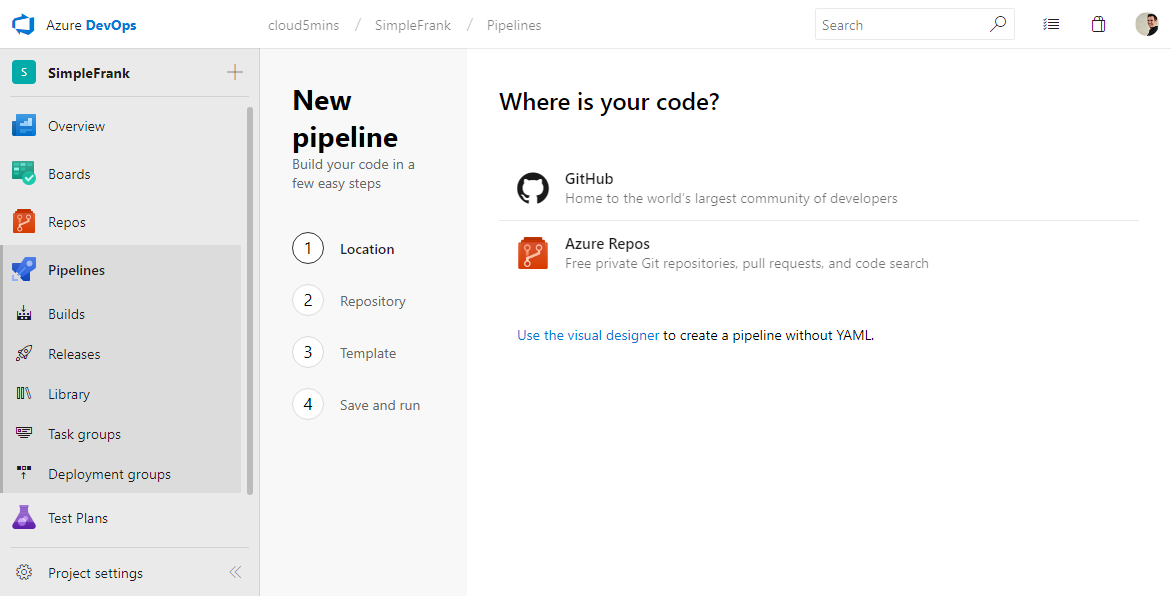
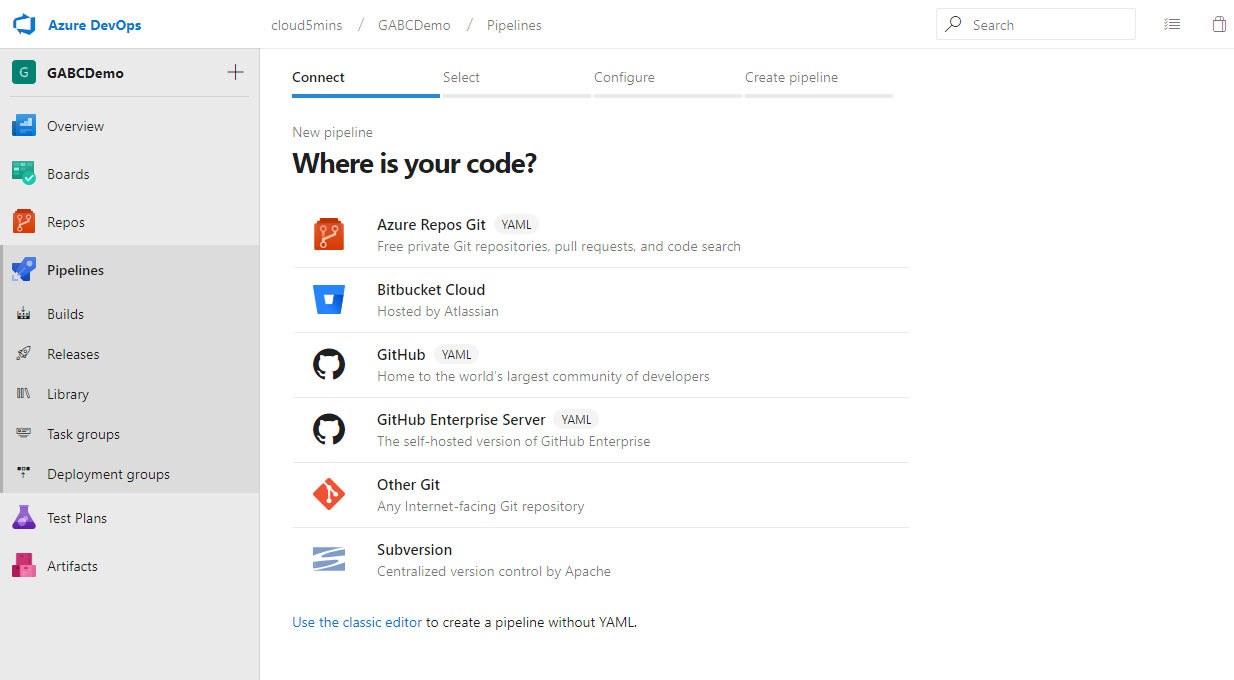
fixing Lab 1 all issue in one shot

diff --git a/Lab1/README.md b/Lab1/README.md
@@ -6,27 +6,23 @@
 
 In this lab you will create an application in .Net Core, push it to a remote repository and create a Continuous Integration and Continuous Deployment (CI/CD) with the Azure DevOps Pipeline to deploy the website to Azure.
 
-## Let's code!
+# Let's code!
 
-### Build The Application
+## Build The Application
 
 First, create a folder named `gab2019`. This will be the root folder for today's solution, all subsequent labs during the day will add content and sub-folder to this one. Then let's create a new web application using the .Net Core. Open a terminal, and navigate to your new root folder "gab2019" folder (ex: C:\Dev\gab2019\).
 
     cd C:\dev\gab2019\
 
-Let's scafold an application named GABCDemo using the following command:
+Let's scaffold an application named GABCDemo using the following command:
 
     dotnet new mvc -o GABCDemo
-
-Go into the new folder where your application as just been created.
-
-    cd GABCDemo
 
 Open the solution into Visual Studio Code with:
 
     code .
 
-### Initialize Local Repository
+## Initialize Local Repository
 
 To create a Git repository you can from Visual Studio Code open a terminal (Ctrl + \`) or return to the terminal windows already open. Make sure your are in the folder `C:\dev\gab2019\` and the following command:
 
@@ -44,9 +40,15 @@ This command will create a new commit containing the current contents of the ind
 
 Now, Git will track the evolution of our code. Git is a decentralized code repository system, therefore there is usually many repository where you can push and pull. However, before we can push our code to a remote repository we have other task to do. Will come back to it later.
 
-### Create The Azure WebApp
+## Create The Azure WebApp
 
-The next step is to create a placeholder for our website.  We will create an empty shell of a web application in Azure with these three Azure CLI commands. You can execute them locally or from the Cloud Shell. (Don't forget to validate that you are in the good subscription)
+The next step is to create a placeholder for our website.  We will create an empty shell of a web application in Azure with these three Azure CLI commands. You can execute them locally, in a terminal or from the Azure Cloud Shell. The Cloud Shell is a terminal... in Azure! You can access it via the URL [https://shell.azure.com/](https://shell.azure.com).
+
+![CloudShell][CloudShell]
+
+Don't forget to validate that you are in the good subscription. if you are not sure try `az account show` to display information about the current subscription.
+
+> Note: You might experience an error if you webapp name is not unique. (Conflict: Website with given name <web app name> already exists.) Make sure to use a unique name. ex: gab2019<your_initial><2digits_random_number> gab2019AV47
 
     az group create --name gabcdemogroup --location eastus
 
@@ -54,17 +56,15 @@ The next step is to create a placeholder for our website.  We will create an emp
 
     az webapp create --name gabcdemo --resource-group gabcdemogroup --plan gabcdemoplan
 
-    Note: You might experience an error if you webapp name is not unique. (Conflict: Website with given name <web app name> already exists.) Make sure to use a unique name. ex: gab2019<your_initial><2digits_random_number> gab2019AV47
-
 The first command will create a Resource group. Then inside of this group we create a service plan, and finally we create a webapp to the mix.
 
 To validate that everything has been created, open a internet browser and navigate to the Azure Portal (portal.azure.com). From the left menu select *Resource Groups*. Click on the group *gabcdemogroup* that we just created, then click on the web App *gabcdemo*
 
 ![resourceGroup][resourceGroup]
 
-In the top section of the blade you will found the URL of the web site, click on it. You should see a meesage saying:"Your App Service app is up and running".  That perfect, our website shell is ready.
+In the top section of the blade you will found the URL of the web site, click on it. You should see a message saying:"Your App Service app is up and running".  That perfect, our website shell is ready.
 
-### Create an Azure DevOps project
+## Create an Azure DevOps project
 
 Navigate to [Dev.Azure.com](http://Dev.Azure.com) and if you don't already have an account [create one it's free!](../Lab0/README.md#azure-devops) Once you are logged-in, create a new project by clicking the New project blue button in the top right corner.
 
@@ -72,19 +72,25 @@ Navigate to [Dev.Azure.com](http://Dev.Azure.com) and if you don't already have 
 
 You will need to provide a unique name and a few simple information. 
 
-### Get the Remote Repository Url
+## Get the Best Azure DevOps Experience
+
+To get the best of the Azure DevOps portal and from the Azure Pipeline, turn ON a few (or all) option(s) in the Settings. To follow this Lab, the option **New YAML pipeline creation experience** should be on. Do enable it, click in the top-right corner on your avatar, and select the **Preview features** option. Then turn on the feature(s)
+
+![PreviewFeatures][PreviewFeatures]
+
+## Get the Remote Repository Url
 
 Here you have two options you can use the repository provided in the Azure DevOps project you just created, or create a another one in GitHub.
 
-#### Option 1: Using Azure DevOps Repos
+### Option 1: Using Azure DevOps Repos
 
 On Azure DevOps portal, from the left menu select *Repos*. Copy the command under the `or push an existing repository from command line`.
 
 ![gitremoteadd][gitremoteadd]
 
-#### Option 2: Using GitHub
+### Option 2: Using GitHub
 
-Azure Pipeline support many different repository. One that is very popular is Github. If you don't already have an account [create one it's free!](../Lab0/README.md#github-optional) Once you are logged-in, create a new repository by expending the "+" in the top right corner, then clicking the **New repository** button.
+Azure Pipeline support many different repository. One that is very popular is GitHub. If you don't already have an account [create one it's free!](../Lab0/README.md#github-optional) Once you are logged-in, create a new repository by expending the "+" in the top right corner, then clicking the **New repository** button.
 
 ![NewGitHubRepoHere][NewGitHubRepoHere]
 
@@ -96,20 +102,20 @@ Now from this page grab the code under `…or push an existing repository from t
 
 ![AddGitHubRemote][AddGitHubRemote]
 
-### Add a Remote Repository
+## Add a Remote Repository
 
 Return to the Terminal/ Console and paste the command.
 
-    git remote add origin https:.....
+    git remote add origin [URL_FOUND_IN_THE_PREVIOUS_STEP]
     git push origin --all
 
 THe first line is to add the remote repository and name it "origin". The second line is to push (upload) the content of the local repository to origin (the remote one). You will need to enter your credential.
 
-### Continuous Integration
+## Continuous Integration
 
 The goal is to have the code to get to compile at every commit. From the Azure DevOps' left menubar, select *Pipelines*, and click the create new button. The first step is to identify where our code is, as you can see Azure DevOps is flexible and accept code from different sources. Select the source you use at the precedent step (option 1: Azure Repos or option 2: GitHub).
 
-> **Note:** If you are using GitHub you will need to Authorize Azure DevOps to your Github repository by clicking the Authorize button.
+> **Note:** If you are using GitHub you will need to Authorize Azure DevOps to your GitHub repository by clicking the Authorize button.
 
 ![NewPipeline_step1][NewPipeline_step1]
 
@@ -117,15 +123,19 @@ Select the exact repository.
 
 ![NewPipeline_step2][NewPipeline_step2]
 
-This third step displays the YAML code that defines your pipeline. At this point, the file is not complete, but it's enough to build, we will come back to it later. Click the *Add* button to add the `azure-pipelines.yml` file at the root level of your repository.
+This third step is to configure our pipeline. You can start from a template, an existing configuration file or an empty one.  For now, let's take the recommended one (Azure DevOps detected our project was .NET Core) and select the template ASP.NET Core.
 
-![NewPipeline_step3][NewPipeline_step3]
+![SelectTemplateASPNETCore][SelectTemplateASPNETCore]
 
-The build pipeline is ready click the *Run* button to execute it for the first time. Now at every commit, the build will be triggered. To see the status of your build just on to into the build section from the left menubar.
+This will displays the *YAML code* that defines your pipeline. At this point, the file is not complete, we need to specify where is our project. On the line 16 add `./GABDemo/` (assuming your project is in folder GABDemo).
+
+![UpdateYaml][UpdateYaml]
+
+Click the *Save and run* button to add the `azure-pipelines.yml` file at the root level of your repository and execute it for the first time. Now at every commit, the build will be triggered. To see the status of your build just on to into the build section from the left menubar.
 
 ![buildSuccess][buildSuccess]
 
-### Continuous Deployment
+## Continuous Deployment
 
 Great, our code gets to compile at every commit. It would be nice if the code could also be automatically deployed into our dev environment. To achieve that we need to create a *Release Pipeline*.
 And our pipeline will need artifacts. We will edit the `azure-pipelines.yml` to add two new tasks. You can do this directly in the online repository or just from your local machine; remember the file is at the root.  Add these commands:
@@ -133,7 +143,7 @@ And our pipeline will need artifacts. We will edit the `azure-pipelines.yml` to 
     - task: DotNetCoreCLI@2
       displayName: 'dotnet publish $(buildConfiguration)'
       inputs:
-        command: publish
+        command: publish 
         publishWebProjects: True
         arguments: '--configuration $(buildConfiguration) --output $(Build.ArtifactStagingDirectory)'
         zipAfterPublish: True
@@ -143,7 +153,7 @@ And our pipeline will need artifacts. We will edit the `azure-pipelines.yml` to 
 
 Those two tasks are to publish our application (package it), and make it available in our Artifact folder. To learn more about the type of command available and see example have a look the  excellent documentation at: https://docs.microsoft.com/azure/devops/pipelines/languages/dotnet-core.  Once you are done, save and commit (and push if it was local).
 
-From the left menubar, click on e the *Pipelines*,  select *Release*, and client the *New Release* blue button. Select the template that matches your application. For this post *Azure App Service deployment* is the one we need. 
+From the left menubar, click on e the *Pipelines*,  select *Release*, and client the *New Release* blue button. Select the template that matches your application. For this lab *Azure App Service deployment* is the one we need. 
 
 ![New Release, select a template][NewRelease_step1]
 
@@ -152,8 +162,6 @@ The next thing to will be to rename the environment for something else than *Sta
 ![Release Pipeline][ReleasePipeline]
 
 You will now specify to the pipeline where to pick the artifacts it will deploy. In this case, we want the "output" of our latest build. And I renamed the Source alias as **Drop**.
-
-![AddArtifact][AddArtifact]
 
 To get our continuous deployment (CD) we need to enable that trigger by clicking on the little lightning bolt and enabled it.
 
@@ -165,11 +173,11 @@ Select the subscription you would like to use, and then click on the `Authorize`
 
 ![SetupReleaseDetails][SetupReleaseDetails]
 
-### Testing time
+## Testing time
 
 To test if our CI/CD works we will do a simple code change. First we need to get the latest version of the code. Remember that YAML file was added directly from the web so we don't have it locally.
 
-#### Git pull
+### Git pull
 
 To get the latest version of the code we need to do a `git pull`. You can execute the command directly from the terminal. However, Visual Studio is also well integrated with Git so let's try that way.
 
@@ -212,3 +220,8 @@ Once the deployment is done, refresh your web browser where the web page was sho
 [NewGitHubRepoHere]: medias/NewGitHubRepoHere.png
 [GithubRepoDetails]: medias/GithubRepoDetails.png
 [AddGitHubRemote]: medias/AddGitHubRemote.png
+[SelectTemplateASPNETCore]: medias/SelectTemplateASPNETCore.png
+[UpdateYaml]: medias/UpdateYaml.png
+[PreviewFeatures]: medias/PreviewFeatures.png
+[CloudShell]: medias/CloudShell.png
+
